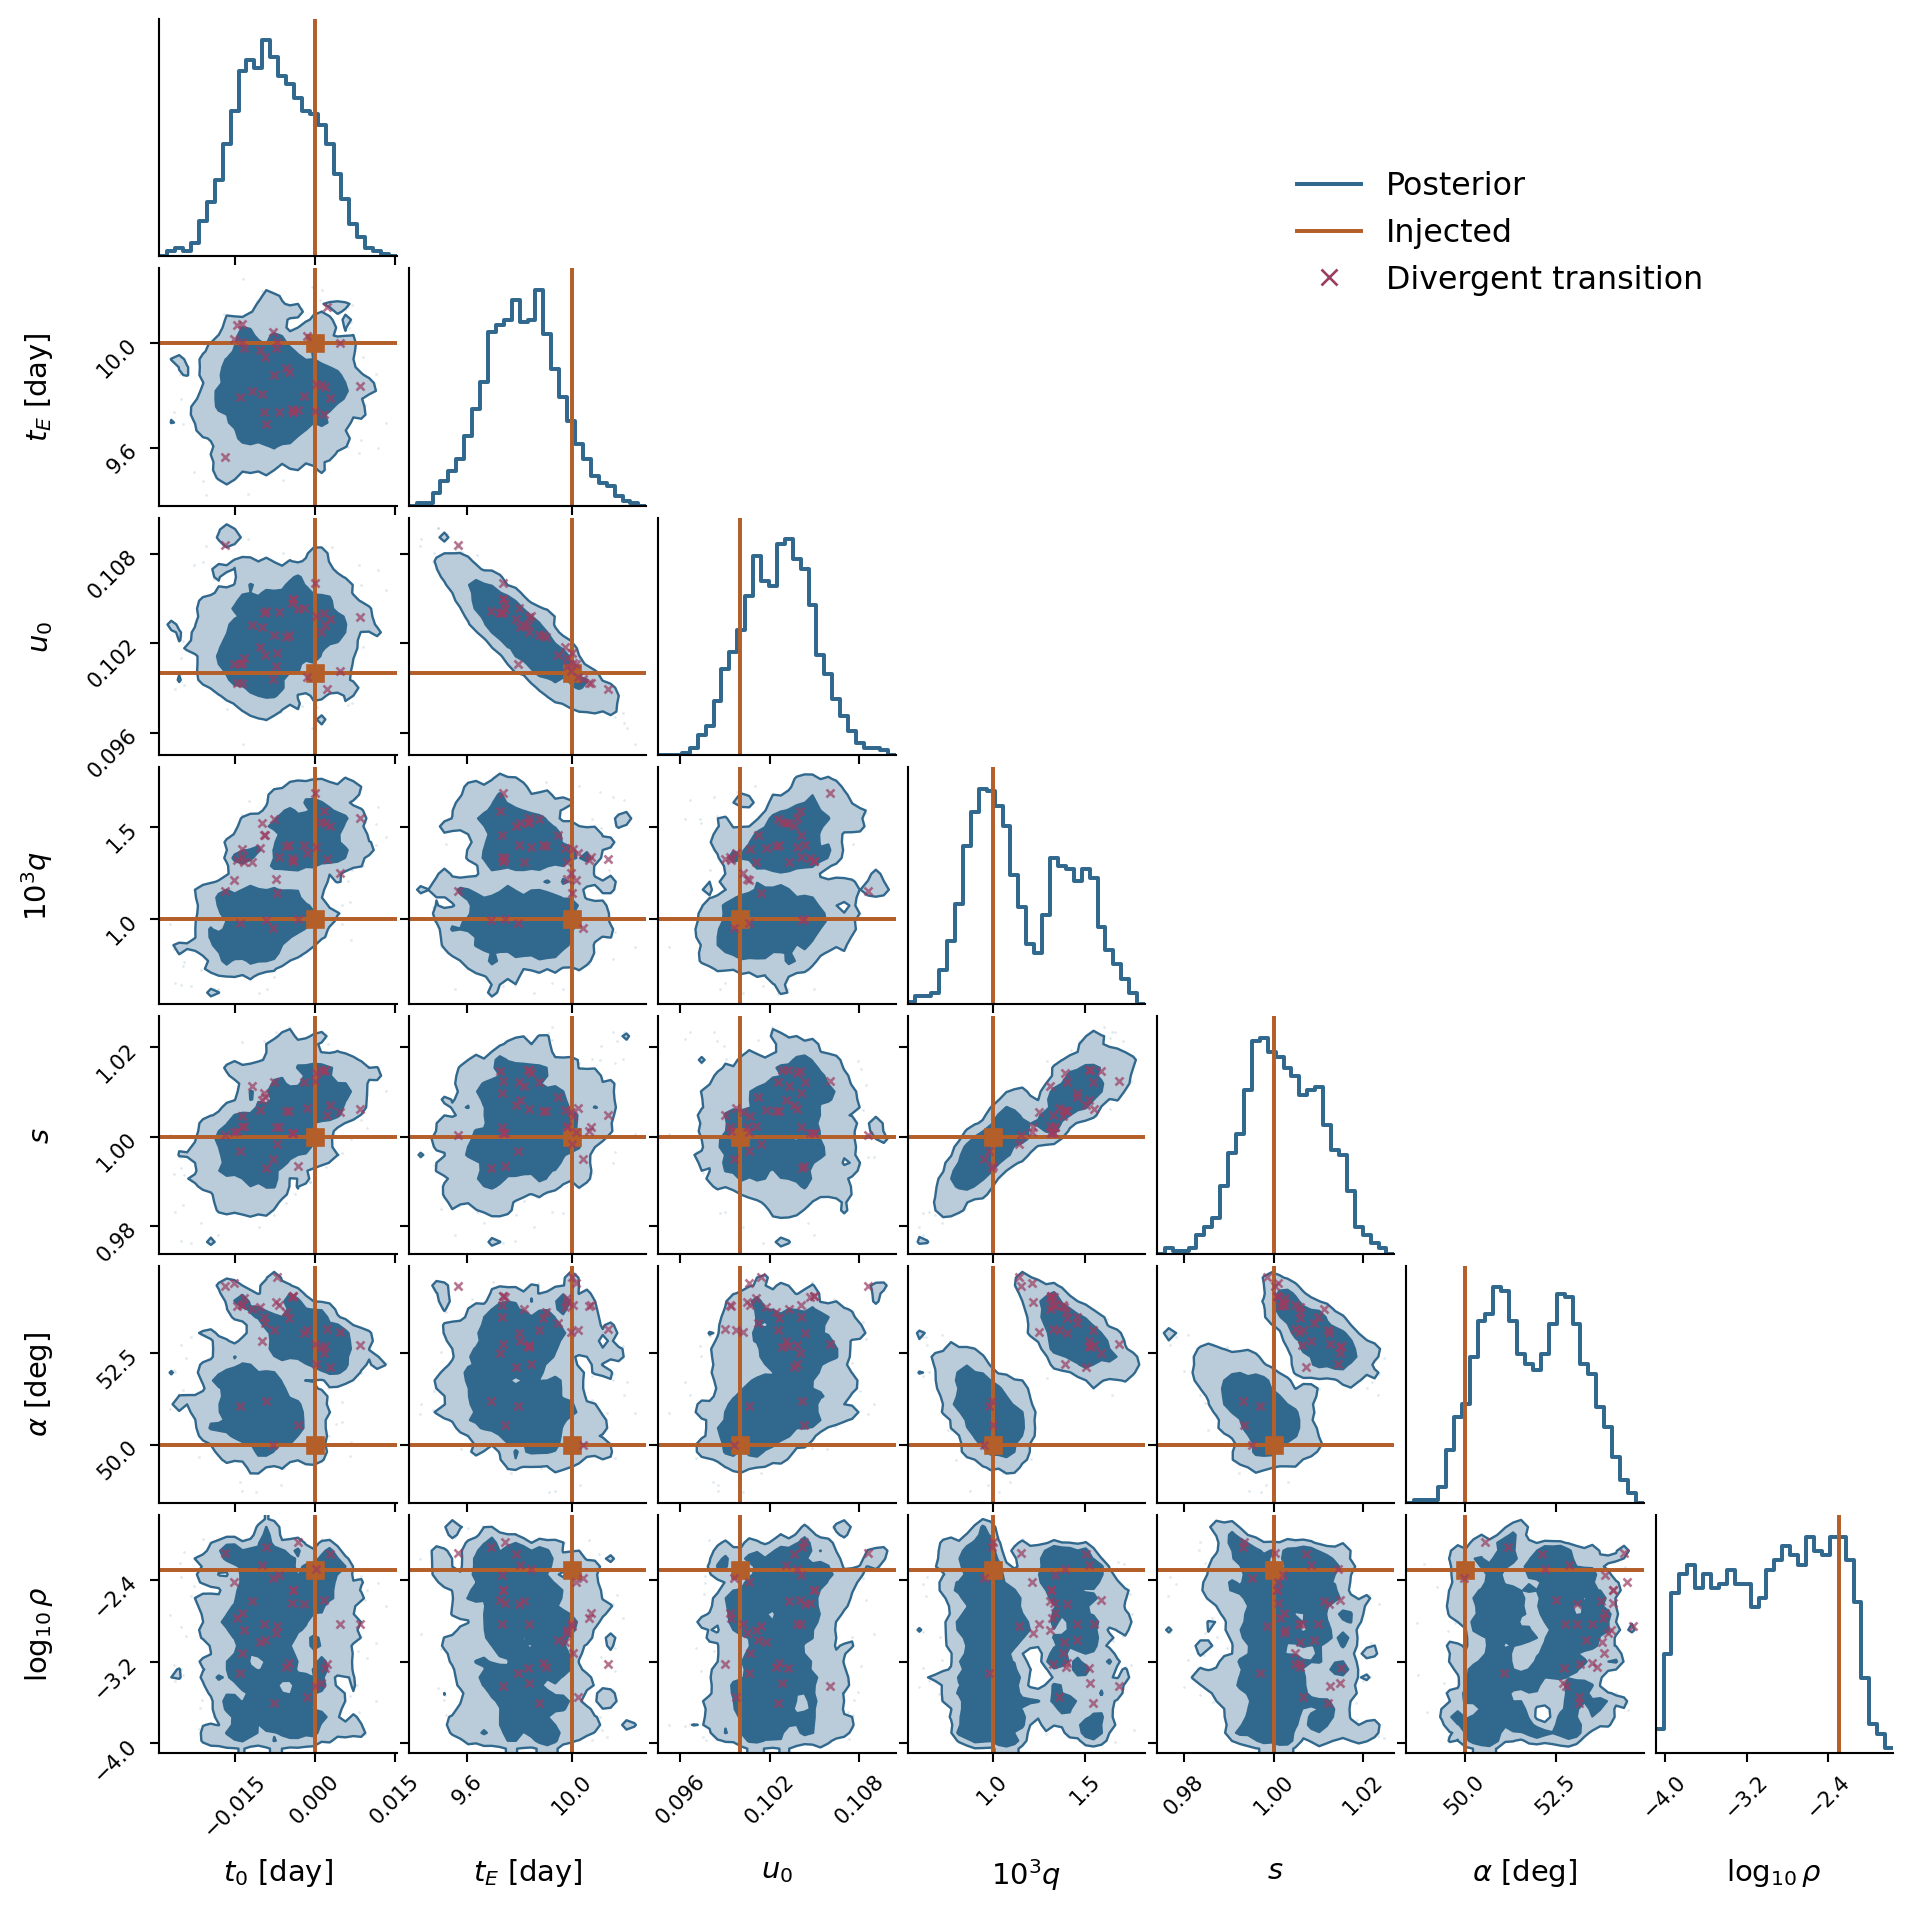
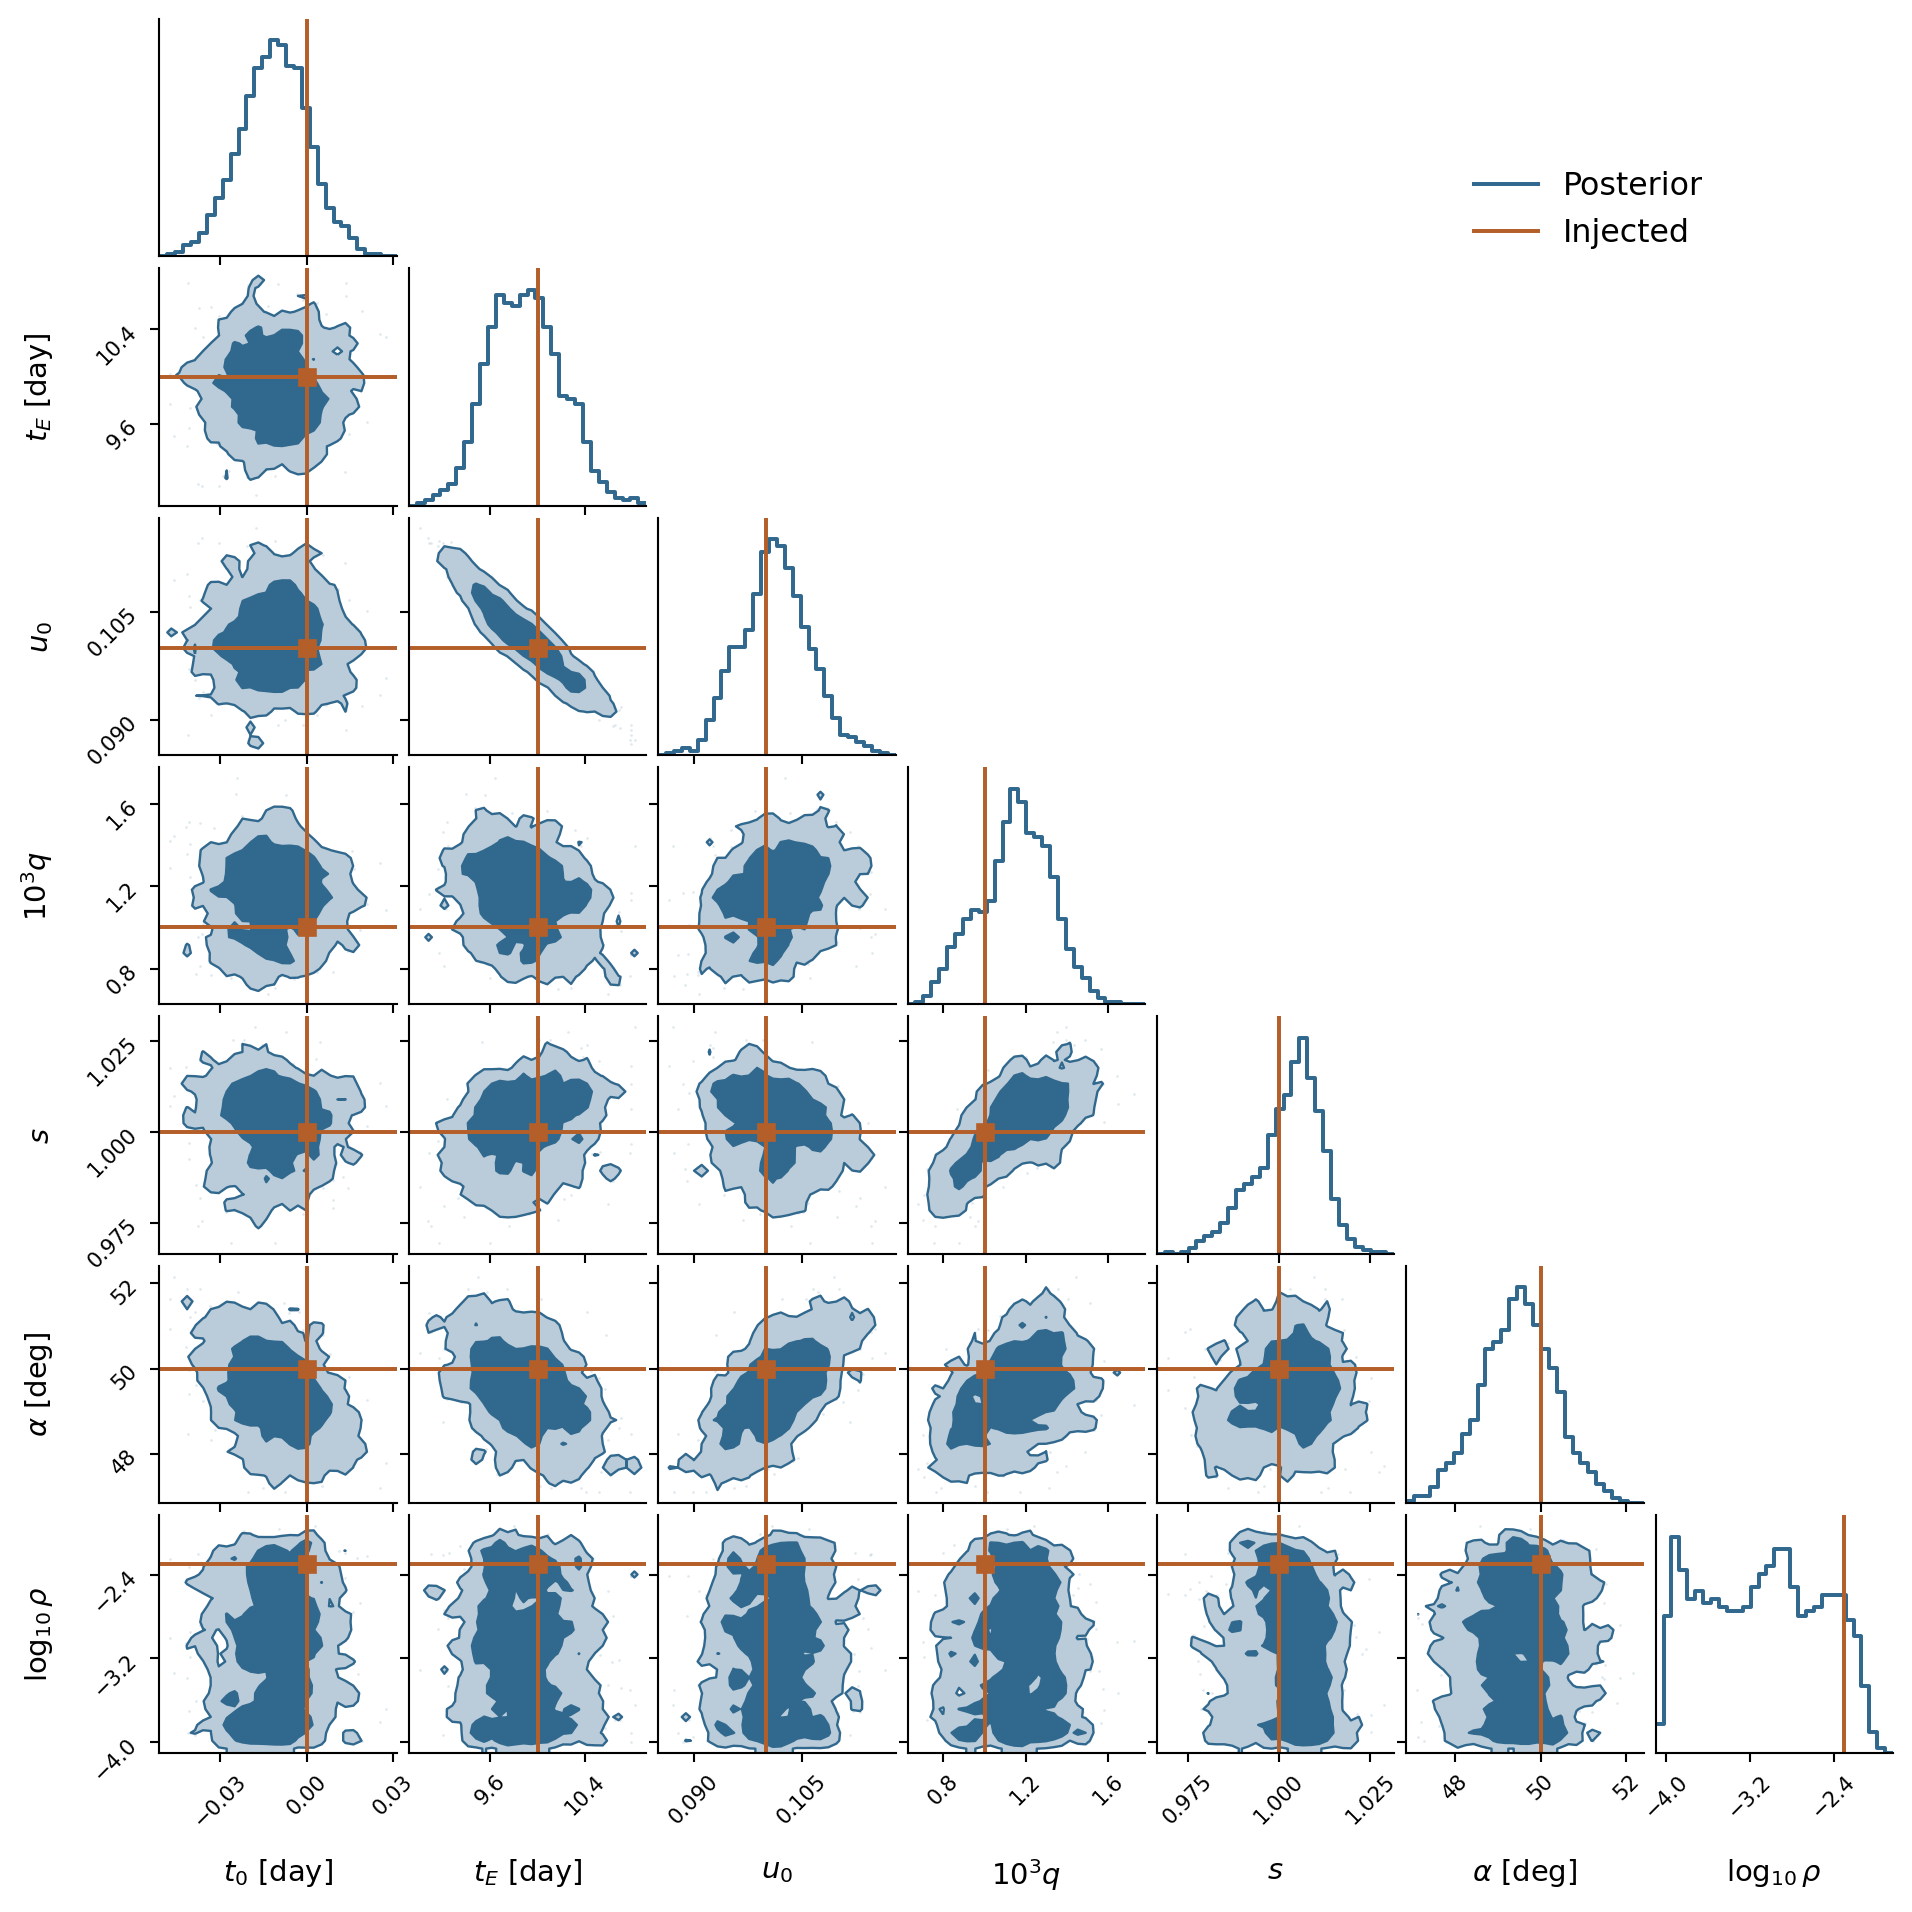
Finalize the CPU HMC injection-recovery example results

diff --git a/docs_src/inference.rst b/docs_src/inference.rst
@@ -10,78 +10,63 @@ Recorded run
 ------------
 
 The figures below use the run from 9 November 2026 at
-`8877b31 <https://github.com/ShotaMiyazaki94/microjax/commit/8877b31>`_:
-500 warm-up steps, 1,000 retained draws, and ``max_tree_depth=10``, with
-the prior bounds below and 1% flux errors.
-The script now uses 360 observations and 3% errors; these figures retain
-the completed 180-point, 1% run.
-NUTS took **205 seconds**, including compilation and warm-up; the local fit
-took another 9.51 seconds. This used six CPU workers, float64, JAX 0.8.0,
+`0529a12 <https://github.com/ShotaMiyazaki94/microjax/commit/0529a12>`_:
+360 observations with 3% flux errors, 500 warm-up steps, and 1,000 retained
+draws. The priors and sampler settings are described below.
+NUTS took **190 seconds**, including compilation and warm-up; the local fit
+took another 9.72 seconds. This used six CPU workers, float64, JAX 0.8.0,
 and NumPyro 0.19.0. Curve evaluation and plotting are outside those timings.
 
-The photometry is fitted closely, but **the chain is not yet well mixed**:
-35 of the 1,000 retained transitions are divergent, and effective sample
-sizes are only 3.9 for :math:`q`, 5.7 for :math:`s`, and 4.6 for
-:math:`\alpha`. The posterior summaries here are provisional:
-`divergences can bias HMC estimates <https://mc-stan.org/learn-stan/diagnostics-warnings.html#divergent-transitions-after-warmup>`_.
-No draw reached the tree-depth limit. Mean acceptance was 0.734, below
-the warm-up target of 0.9.
+There were **no divergent transitions** and no tree-depth limit hits.
+Effective sample sizes range from 308 to 687 across the seven parameters.
 
 .. figure:: _static/hmc_lightcurve.png
    :alt: Dense injected and posterior light curves with data, and residuals relative to the injection
    :width: 100%
    :target: _static/hmc_lightcurve.png
 
-   Full event and a closer view of the peak. Grey points are the 180
+   Full event and a closer view of the peak. Grey points are the 360
    observations; orange is the injected curve. Blue shows the median and
    central 68% model interval from 64 posterior draws, including conditional
-   source/blend flux uncertainty. Models are evaluated at 5,339 times, with
+   source/blend flux uncertainty. Models are evaluated at 5,519 times, with
    spacing at most 0.0025 days around the peak.
 
 The lower panels use the **injected curve as the common reference**. Grey
 points show :math:`(F_{\rm data}-F_{\rm inj})/\sigma`; the blue line and band
 show the corresponding posterior-model differences. At every plotting time,
-:math:`\sigma(t)=0.01F_{\rm inj}(t)`, the noise prescription used for this
+:math:`\sigma(t)=0.03F_{\rm inj}(t)`, the noise prescription used for this
 run's observations. Zero therefore represents the injection.
 
 .. figure:: _static/hmc_corner.png
-   :alt: Seven-parameter corner plot with logarithmic source radius and marked divergent transitions
+   :alt: Seven-parameter corner plot with logarithmic source radius and injected values
    :width: 100%
    :target: _static/hmc_corner.png
 
    Diagonal panels show marginal distributions; lower panels show pairwise
    correlations. Blue contours enclose approximately 68% and 95% of the
    smoothed distributions in the displayed coordinates. Orange marks the
-   injection. Magenta crosses mark retained states associated with divergent
-   transitions; all draws remain in the plotted distributions.
+   injection. All 1,000 draws are included.
 
-The corner plot shows two clusters in :math:`q`, :math:`s`, and
-:math:`\alpha`. The first 500 draws have median :math:`q=9.67\times10^{-4}`;
-the last 500 have median :math:`q=1.40\times10^{-3}`. Mean acceptance falls
-from 0.928 to 0.540, and 31 of the 35 divergent transitions occur in the
-second half. This chain does not establish the relative weights of the
-two clusters reliably; the cause of the divergences remains unresolved.
-
-The source radius spans roughly two orders of magnitude, so :math:`\rho`
-is shown logarithmically. With a 0.335-day cadence, the short caustic feature
-has only a few observations and the radius remains weakly constrained.
+The :math:`t_E`–:math:`u_0` and :math:`q`–:math:`s` correlations are visible
+in the corner plot. The source radius remains weakly constrained: its
+distribution spans roughly two orders of magnitude, so :math:`\rho` is
+shown logarithmically. A close light-curve fit does not require every
+parameter to be measured precisely.
 
 .. csv-table:: Posterior summaries from this run
    :header: "Parameter", "Injected", "Median", "Central 95% interval", "ESS"
    :widths: 18 14 18 36 14
 
-   ":math:`t_0` [day]", "0", "−0.00763", "[−0.02044, 0.00644]", "10"
-   ":math:`t_E` [day]", "10", "9.810", "[9.551, 10.102]", "424"
-   ":math:`u_0`", "0.1", "0.10267", "[0.09825, 0.10709]", "165"
-   ":math:`q`", "0.001", "1.10×10⁻³", "[7.61×10⁻⁴, 1.66×10⁻³]", "3.9"
-   ":math:`s`", "1", "1.00186", "[0.98575, 1.01792]", "5.7"
-   ":math:`\alpha` [deg]", "50", "51.78", "[49.73, 54.02]", "4.6"
-   ":math:`\rho`", "0.005", "1.15×10⁻³", "[1.16×10⁻⁴, 7.82×10⁻³]", "229"
+   ":math:`t_0` [day]", "0", "−0.01090", "[−0.03467, 0.01311]", "617"
+   ":math:`t_E` [day]", "10", "9.884", "[9.336, 10.508]", "687"
+   ":math:`u_0`", "0.1", "0.10135", "[0.09212, 0.11121]", "671"
+   ":math:`q`", "0.001", "1.16×10⁻³", "[8.04×10⁻⁴, 1.47×10⁻³]", "308"
+   ":math:`s`", "1", "1.00399", "[0.98171, 1.01737]", "323"
+   ":math:`\alpha` [deg]", "50", "49.51", "[47.72, 51.19]", "561"
+   ":math:`\rho`", "0.005", "8.47×10⁻⁴", "[1.09×10⁻⁴, 7.05×10⁻³]", "386"
 
-All seven injected values lie in the reported 95% intervals. This agreement
-for one noisy realization does not resolve the poor mixing or divergences. ESS
-accounts for correlation between draws; with one chain there is no
-between-chain convergence comparison.
+All seven injected values lie in the reported 95% intervals. ESS accounts
+for correlation between draws.
 
 Running the example
 -------------------

diff --git a/example/hmc/README.md b/example/hmc/README.md
@@ -37,12 +37,12 @@ The script saves data, samples, diagnostics, model curves, and two figures:
 - `lightcurve.png`: data and densely evaluated model curves, with both data
   and posterior residuals measured relative to the injection.
 - `corner.png`: the seven event parameters and their correlations, with
-  logarithmic source radius and marked divergent transitions.
+  logarithmic source radius.
 
 The model interval includes conditional source/blend flux uncertainty.
-The tutorial records the completed 180-point, 1%-noise run, including its 35
-divergent transitions and poor mixing in `q`, `s`, and `alpha`.
-The next run uses 360 observations and 3% noise.
+The tutorial shows this 360-point, 3%-noise run: NUTS took 190 seconds
+including compilation and warm-up, with no divergences and effective sample
+sizes of 308–687.
 To redraw the figures from saved arrays without sampling again:
 
 ```bash
